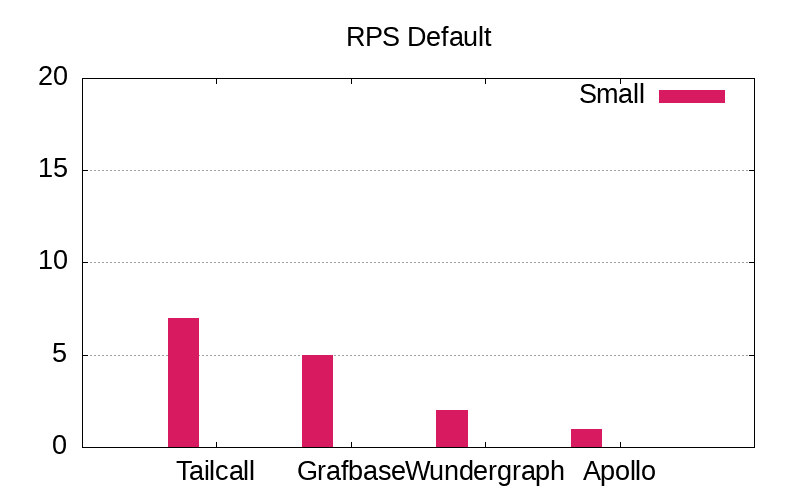
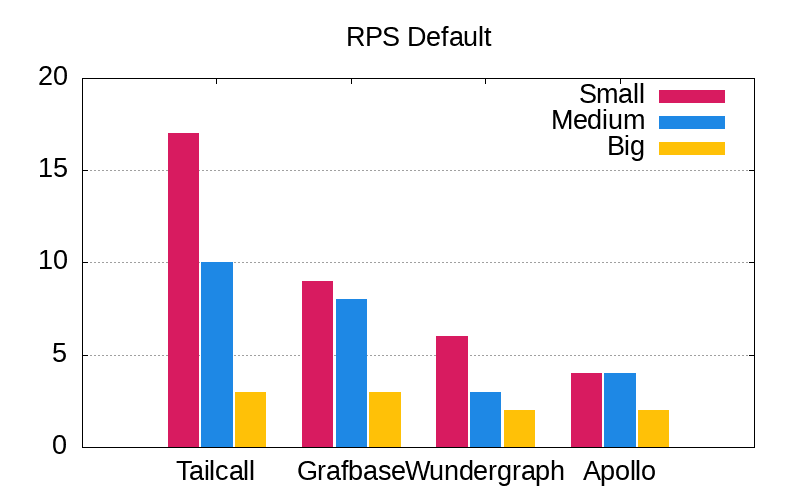
[ci skip] update performance results in README.md

diff --git a/README.md b/README.md
@@ -18,42 +18,42 @@ Explore and compare the performance of the fastest GraphQL federation routers th
 ### [Small Payload - 362 bytes](./source/small.json)
 | Server | Status | RPS | Latency |
 | ---: | ---: | ---: | ---: |
-| [Nginx](https://nginx.org/en/) | ✅ | `12,234 RPS` | `0.011 sec` |
+| [Nginx](https://nginx.org/en/) | ✅ | `12,075 RPS` | `0.0091 sec` |
 | **Base** | | | |
-| [Tailcall](https://github.com/tailcallhq/tailcall) | ✅ | `17,442 RPS` | `0.0044 sec` |
-| [Grafbase](https://github.com/grafbase/grafbase) | ✅ | `10,527 RPS` | `0.0069 sec` |
-| [Wundegraph](https://github.com/wundergraph/cosmo) | ✅ | `6,879 RPS` | `0.0132 sec` |
-| [Apollo](https://github.com/apollographql/router) | ✅ | `4,599 RPS` | `0.016 sec` |
+| [Tailcall](https://github.com/tailcallhq/tailcall) | ✅ | `17,083 RPS` | `0.0047 sec` |
+| [Grafbase](https://github.com/grafbase/grafbase) | ✅ | `9,978 RPS` | `0.0075 sec` |
+| [Wundegraph](https://github.com/wundergraph/cosmo) | ✅ | `6,927 RPS` | `0.0132 sec` |
+| [Apollo](https://github.com/apollographql/router) | ✅ | `4,553 RPS` | `0.0161 sec` |
 | **Cached** | | | |
-| [Tailcall](https://github.com/tailcallhq/tailcall) | ✅ | `41,395 RPS` | `0.0022 sec` |
-| [Grafbase](https://github.com/grafbase/grafbase) | ✅ | `16,871 RPS` | `0.0054 sec` |
-| [Wundegraph](https://github.com/wundergraph/cosmo) | ✅ | `10,571 RPS` | `0.0112 sec` |
+| [Tailcall](https://github.com/tailcallhq/tailcall) | ✅ | `40,558 RPS` | `0.0022 sec` |
+| [Grafbase](https://github.com/grafbase/grafbase) | ✅ | `16,967 RPS` | `0.0054 sec` |
+| [Wundegraph](https://github.com/wundergraph/cosmo) | ✅ | `10,763 RPS` | `0.011 sec` |
 ### [Medium Payload - 12,598 bytes](./source/medium.json)
 | Server | Status | RPS | Latency |
 | ---: | ---: | ---: | ---: |
-| [Nginx](https://nginx.org/en/) | ✅ | `11,571 RPS` | `0.0107 sec` |
+| [Nginx](https://nginx.org/en/) | ✅ | `11,426 RPS` | `0.0108 sec` |
 | **Base** | | | |
-| [Tailcall](https://github.com/tailcallhq/tailcall) | ✅ | `10,378 RPS` | `0.007 sec` |
-| [Grafbase](https://github.com/grafbase/grafbase) | ✅ | `7,965 RPS` | `0.0093 sec` |
-| [Wundegraph](https://github.com/wundergraph/cosmo) | ✅ | `3,832 RPS` | `0.0212 sec` |
-| [Apollo](https://github.com/apollographql/router) | ✅ | `3,857 RPS` | `0.0193 sec` |
+| [Tailcall](https://github.com/tailcallhq/tailcall) | ✅ | `10,005 RPS` | `0.0074 sec` |
+| [Grafbase](https://github.com/grafbase/grafbase) | ✅ | `8,394 RPS` | `0.0086 sec` |
+| [Wundegraph](https://github.com/wundergraph/cosmo) | ✅ | `3,702 RPS` | `0.0224 sec` |
+| [Apollo](https://github.com/apollographql/router) | ✅ | `4,146 RPS` | `0.0181 sec` |
 | **Cached** | | | |
-| [Tailcall](https://github.com/tailcallhq/tailcall) | ✅ | `30,531 RPS` | `0.0029 sec` |
-| [Grafbase](https://github.com/grafbase/grafbase) | ✅ | `12,257 RPS` | `0.0069 sec` |
-| [Wundegraph](https://github.com/wundergraph/cosmo) | ✅ | `6,473 RPS` | `0.0172 sec` |
+| [Tailcall](https://github.com/tailcallhq/tailcall) | ✅ | `30,781 RPS` | `0.0028 sec` |
+| [Grafbase](https://github.com/grafbase/grafbase) | ✅ | `12,354 RPS` | `0.007 sec` |
+| [Wundegraph](https://github.com/wundergraph/cosmo) | ✅ | `6,339 RPS` | `0.018 sec` |
 ### [Big Payload - 112,838 bytes](./source/big.json)
 | Server | Status | RPS | Latency |
 | ---: | ---: | ---: | ---: |
-| [Nginx](https://nginx.org/en/) | ✅ | `5,065 RPS` | `0.0186 sec` |
+| [Nginx](https://nginx.org/en/) | ✅ | `5,299 RPS` | `0.0163 sec` |
 | **Base** | | | |
-| [Tailcall](https://github.com/tailcallhq/tailcall) | ✅ | `3,260 RPS` | `0.0224 sec` |
-| [Grafbase](https://github.com/grafbase/grafbase) | ✅ | `3,727 RPS` | `0.0201 sec` |
-| [Wundegraph](https://github.com/wundergraph/cosmo) | ✅ | `2,160 RPS` | `0.0557 sec` |
-| [Apollo](https://github.com/apollographql/router) | ✅ | `2,011 RPS` | `0.0384 sec` |
+| [Tailcall](https://github.com/tailcallhq/tailcall) | ✅ | `3,261 RPS` | `0.0225 sec` |
+| [Grafbase](https://github.com/grafbase/grafbase) | ✅ | `3,810 RPS` | `0.0198 sec` |
+| [Wundegraph](https://github.com/wundergraph/cosmo) | ✅ | `2,174 RPS` | `0.0546 sec` |
+| [Apollo](https://github.com/apollographql/router) | ✅ | `2,282 RPS` | `0.0326 sec` |
 | **Cached** | | | |
-| [Tailcall](https://github.com/tailcallhq/tailcall) | ✅ | `17,920 RPS` | `0.0044 sec` |
-| [Grafbase](https://github.com/grafbase/grafbase) | ✅ | `4,919 RPS` | `0.0171 sec` |
-| [Wundegraph](https://github.com/wundergraph/cosmo) | ✅ | `2,905 RPS` | `0.0408 sec` |
+| [Tailcall](https://github.com/tailcallhq/tailcall) | ✅ | `17,631 RPS` | `0.0045 sec` |
+| [Grafbase](https://github.com/grafbase/grafbase) | ✅ | `4,609 RPS` | `0.0188 sec` |
+| [Wundegraph](https://github.com/wundergraph/cosmo) | ✅ | `2,933 RPS` | `0.0394 sec` |
 <!-- PERFORMANCE_RESULTS_END -->
 
 Specifications of the machine used for benchmarking:
